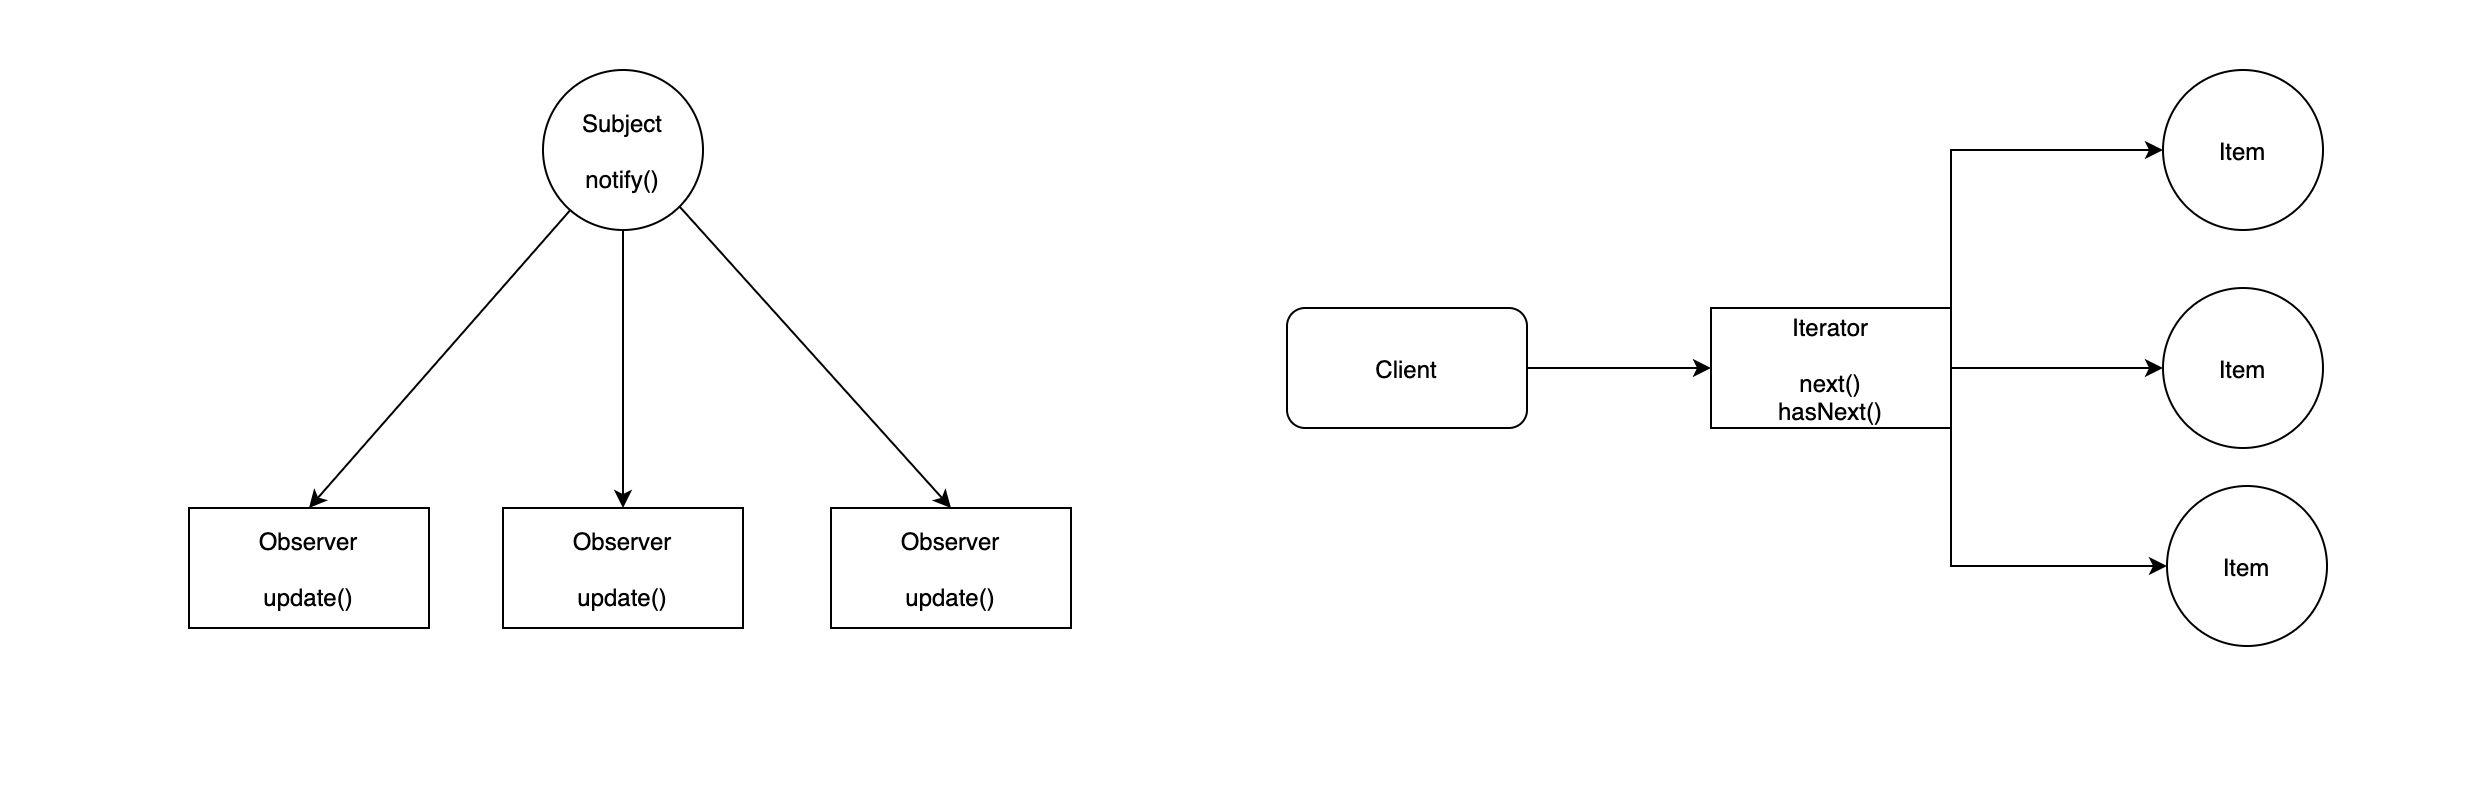
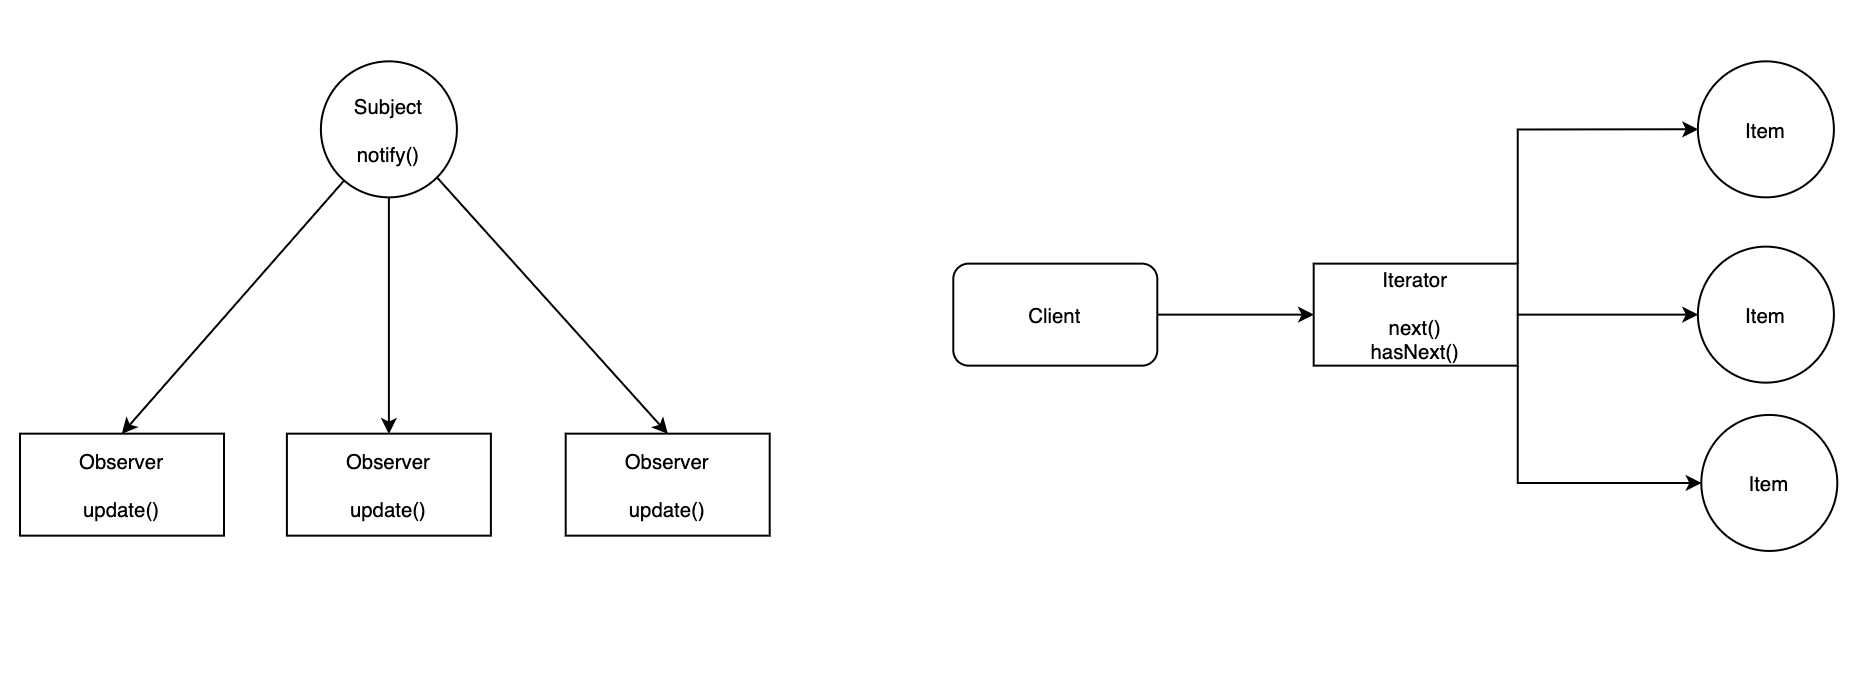
upd presentation

diff --git a/index.md b/index.md
@@ -5,7 +5,7 @@ layout: yandex2
 style: |
     /* собственные стили можно писать здесь!! */
 
-    #observer-iterator img {
+    #full-screen img {
         width: 100%;
         margin-top: 50px;
     }
@@ -43,7 +43,7 @@ style: |
 
 ## Observer + Iterator = Observable
 
-{:.images #observer-iterator}
+{:.images #full-screen}
 ![](pictures/IteratorAndObserver.png)
 
 ## Promise и Observable
@@ -381,7 +381,7 @@ outerInterval$.pipe(
 {:.image-right}
 
 ## mergeMap и switchMap
-{:.images}
+{:.images #full-screen}
 
 ![](pictures/mergeMapAndSwitchMap.png)
 
